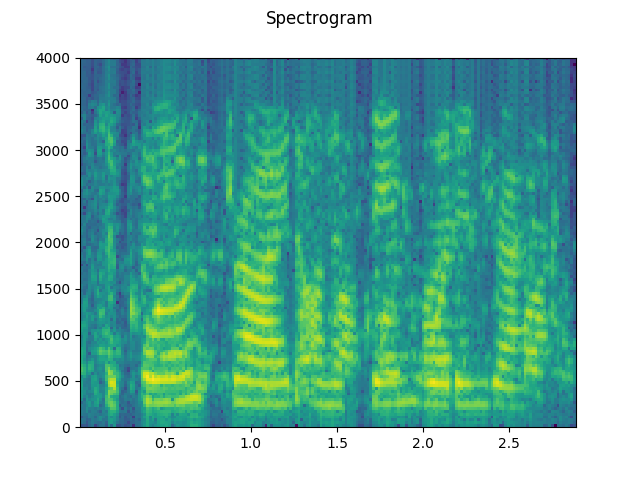
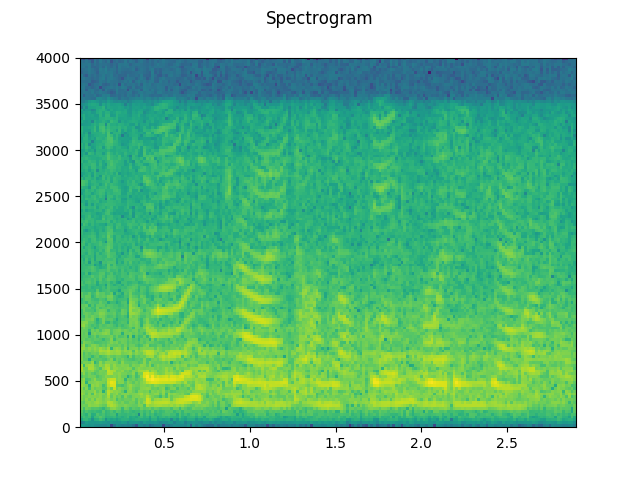
Added documentation for Kalman Filter

diff --git a/utility.py b/utility.py
@@ -226,18 +226,18 @@ if __name__ == "__main__":
     #plot_waveform(waveform, sample_rate, "docs/images/Testset/waveform_sp05_train_sn0.png")
     #plot_specgram(waveform, sample_rate, "docs/images/Testset/spec_sp05_train_sn0.png")
 
-    waveform, sample_rate = torchaudio.load("Testset/noise/airport_0dB/sp05_airport_sn0.wav")
-    plot_waveform(waveform, sample_rate, "docs/images/Testset/waveform_sp05_airport_sn0.png")
-    plot_specgram(waveform, sample_rate, "docs/images/Testset/spec_sp05_airport_sn0.png")
+    #waveform, sample_rate = torchaudio.load("Testset/noise/airport_0dB/sp05_airport_sn0.wav")
+    #plot_waveform(waveform, sample_rate, "docs/images/Testset/waveform_sp05_airport_sn0.png")
+    #plot_specgram(waveform, sample_rate, "docs/images/Testset/spec_sp05_airport_sn0.png")
 
-    waveform, sample_rate = torchaudio.load("Testset/noisy/station/sp05_station_sn5.wav")
-    plot_waveform(waveform, sample_rate, "docs/images/Testset/waveform_sp05_station_sn5.png")
-    plot_specgram(waveform, sample_rate, "docs/images/Testset/spec_sp05_station_sn5.png")
+    #waveform, sample_rate = torchaudio.load("Testset/noisy/station/sp05_station_sn5.wav")
+    #plot_waveform(waveform, sample_rate, "docs/images/Testset/waveform_sp05_station_sn5.png")
+    #plot_specgram(waveform, sample_rate, "docs/images/Testset/spec_sp05_station_sn5.png")
 
-    waveform, sample_rate = torchaudio.load("Testset/noisy/station/sp05_station_sn10.wav")
-    plot_waveform(waveform, sample_rate, "docs/images/Testset/waveform_sp05_station_sn10.png")
-    plot_specgram(waveform, sample_rate, "docs/images/Testset/spec_sp05_station_sn10.png")
+    #waveform, sample_rate = torchaudio.load("Testset/noisy/station/sp05_station_sn10.wav")
+    #plot_waveform(waveform, sample_rate, "docs/images/Testset/waveform_sp05_station_sn10.png")
+    #plot_specgram(waveform, sample_rate, "docs/images/Testset/spec_sp05_station_sn10.png")
 
-    waveform, sample_rate = torchaudio.load("Testset/noisy/station/sp05_station_sn15.wav")
-    plot_waveform(waveform, sample_rate, "docs/images/Testset/waveform_sp05_station_sn15.png")
-    plot_specgram(waveform, sample_rate, "docs/images/Testset/spec_sp05_station_sn15.png")
+    waveform, sample_rate = torchaudio.load("docs/audio/kalman_filtered_sp15_station_sn5.wav")
+    plot_waveform(waveform, sample_rate, "docs/images/Filters/kalman_filtered_audio_waveform.png")
+    plot_specgram(waveform, sample_rate, "docs/images/Filters/wiener_filtered_spectrogram.png")

diff --git a/Filters/README.md b/Filters/README.md
@@ -25,3 +25,7 @@ In this section we explore the various traditional signal processing filters for
 ### Weiner Filter
 
 <img src="../docs/images/Filters/wiener_filtered_audio_waveform.png" width="450"> <img src="../docs/images/Filters/wiener_filtered_spectrogram.png" width="450"> 
+
+### Kalman Filter
+
+<img src="../docs/images/Filters/kalman_filtered_audio_waveform.png" width="450"> <img src="../docs/images/Filters/wiener_filtered_spectrogram.png" width="450"> 
